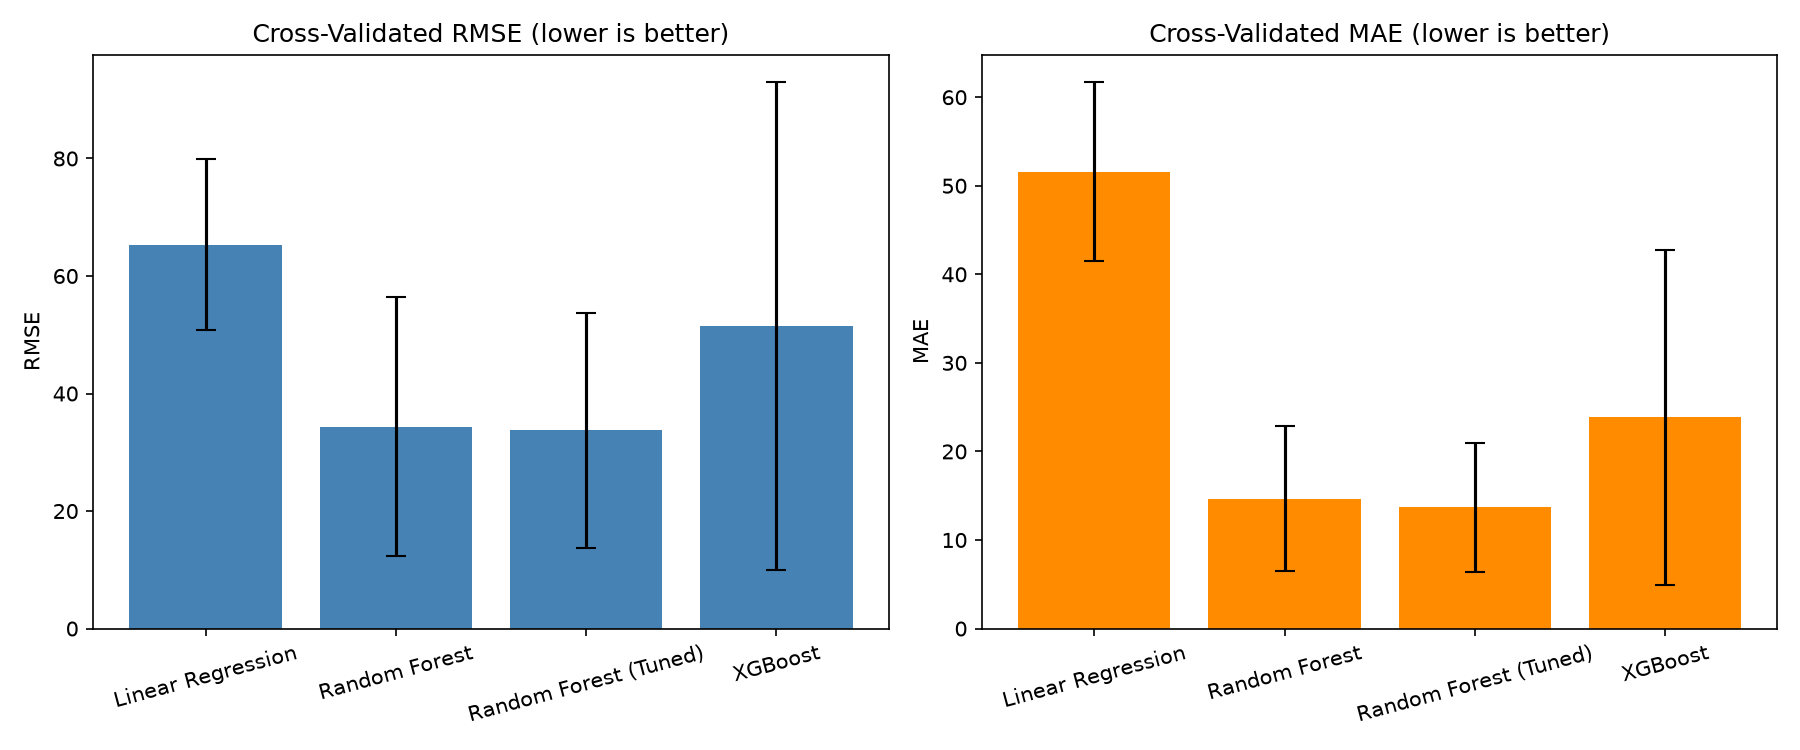
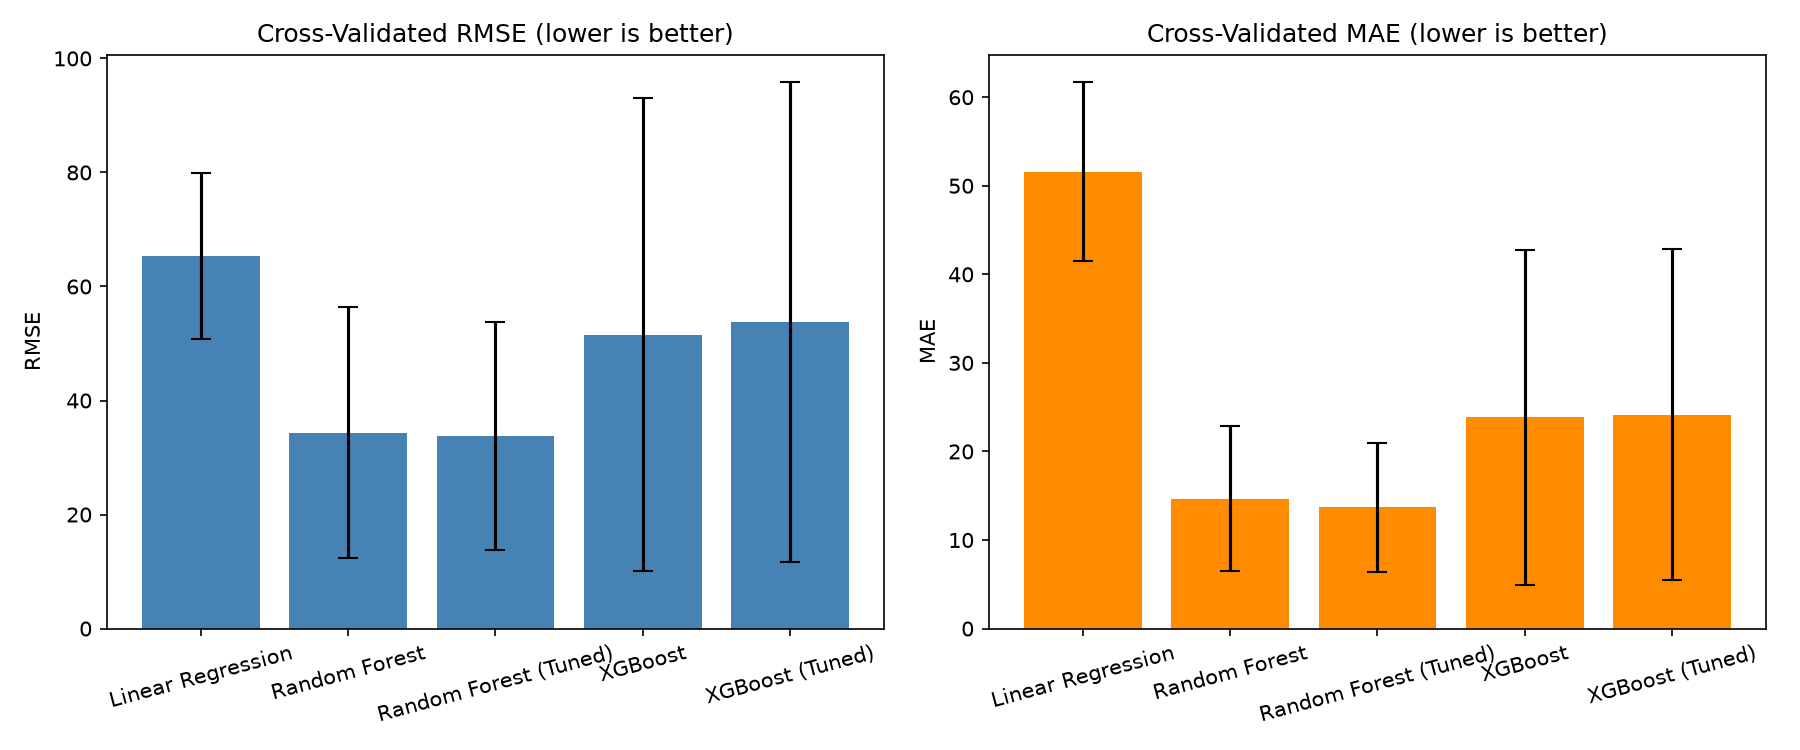
Add tuned XGBoost comparison, SHAP global + per-prediction explanations

diff --git a/app.py b/app.py
@@ -10,6 +10,8 @@ Run:
 import streamlit as st
 import pandas as pd
 import numpy as np
+import shap
+import matplotlib.pyplot as plt
 
 from sklearn.preprocessing import OneHotEncoder
 from sklearn.compose import ColumnTransformer
@@ -50,6 +52,11 @@ def train_model(df):
     pipeline.fit(X, y)
     return pipeline
 
[email redacted]_resource
+def get_shap_explainer(_model):
+    rf_model = _model.named_steps["model"]
+    return shap.TreeExplainer(rf_model)
+
 def run_prediction_tab(df, model):
     st.header("Enter details")
 
@@ -85,6 +92,72 @@ def run_prediction_tab(df, model):
         prediction = model.predict(input_df)[0]
 
         st.success(f"### Predicted Yield: {prediction:.2f} Quintal/Hectare")
+        # --- SHAP explanation for this specific prediction ---
+        explainer = get_shap_explainer(model)
+        preprocessor = model.named_steps["preprocessor"]
+        input_transformed = preprocessor.transform(input_df)
+        if hasattr(input_transformed, "toarray"):
+            input_transformed = input_transformed.toarray()
+        input_transformed = input_transformed.astype(float)
+
+        cat_encoder = preprocessor.named_transformers_["cat"]
+        cat_feature_names = list(cat_encoder.get_feature_names_out(CATEGORICAL_FEATURES))
+        all_feature_names = cat_feature_names + NUMERIC_FEATURES
+
+        shap_values = explainer.shap_values(input_transformed)
+        if isinstance(shap_values, list):
+            shap_values = shap_values[0]
+        shap_values = np.array(shap_values).flatten()
+
+        
+        if len(shap_values) != len(all_feature_names):
+            st.error(f"Feature mismatch: {len(shap_values)} SHAP values vs {len(all_feature_names)} names. Skipping explanation.")
+            shap_values = None
+
+        base_value = explainer.expected_value
+        if isinstance(base_value, (list, np.ndarray)):
+            base_value = base_value[0]
+        base_value = float(base_value)
+
+        if shap_values is not None:
+            impact_df = pd.DataFrame({
+                "feature": all_feature_names,
+                "shap_value": shap_values,
+            })
+
+            selected_crop_col = f"crop_{crop}"
+            selected_state_col = f"state_{state}"
+
+            def is_relevant(feature_name):
+                if feature_name in (selected_crop_col, selected_state_col):
+                    return True
+                if not feature_name.startswith("crop_") and not feature_name.startswith("state_"):
+                    return True
+                return False
+
+            impact_df = impact_df[impact_df["feature"].apply(is_relevant)].copy()
+            impact_df["abs_impact"] = impact_df["shap_value"].abs()
+            top_features = impact_df.sort_values("abs_impact", ascending=False).head(3)
+
+            with st.expander("🔍 Why this prediction? (See feature impact)"):
+                st.caption(
+                    f"Starting from an average yield of {base_value:.2f}, "
+                    f"here's what pushed this specific prediction up or down:"
+                )
+                for _, row in top_features.iterrows():
+                    feature_name = row["feature"]
+                    shap_val = row["shap_value"]
+
+                    if feature_name == selected_crop_col:
+                        label = f"Growing **{crop}**"
+                    elif feature_name == selected_state_col:
+                        label = f"Being grown in **{state}**"
+                    else:
+                        clean_name = feature_name.replace("_", " ")
+                        label = f"**{clean_name}**"
+
+                    direction = "increased ⬆️" if shap_val > 0 else "decreased ⬇️"
+                    st.write(f"- {label} {direction} the prediction by **{abs(shap_val):.2f}** quintal/hectare")
 
         crop_avg = df[df["crop"] == crop][TARGET].mean()
         st.caption(

diff --git a/src/train_model.py b/src/train_model.py
@@ -111,6 +111,38 @@ def tune_random_forest(X, y, cv):
 
     return grid_search.best_estimator_
 
+def tune_xgboost(X, y, cv):
+    """Finds the best XGBoost hyperparameters using grid search."""
+    preprocessor = ColumnTransformer(
+        transformers=[
+            ("cat", OneHotEncoder(handle_unknown="ignore"), CATEGORICAL_FEATURES),
+        ],
+        remainder="passthrough",
+    )
+    pipeline = Pipeline(steps=[
+        ("preprocessor", preprocessor),
+        ("model", XGBRegressor(random_state=42, verbosity=0)),
+    ])
+
+    param_grid = {
+        "model__n_estimators": [50, 100, 200, 300],
+        "model__max_depth": [2, 3, 5, 7],
+        "model__learning_rate": [0.01, 0.05, 0.1, 0.2],
+    }
+
+    grid_search = GridSearchCV(
+        pipeline, param_grid, cv=cv, scoring="neg_mean_absolute_error", n_jobs=-1
+    )
+    grid_search.fit(X, y)
+
+    print("\n" + "=" * 60)
+    print("XGBOOST HYPERPARAMETER TUNING")
+    print("=" * 60)
+    print(f"Best parameters: {grid_search.best_params_}")
+    print(f"Best CV MAE: {-grid_search.best_score_:.2f}")
+
+    return grid_search.best_estimator_
+
 def plot_predictions(results_dict, outdir):
     n = len(results_dict)
     fig, axes = plt.subplots(1, n, figsize=(6 * n, 5))
@@ -167,6 +199,38 @@ def plot_feature_importance(rf_pipeline, outdir):
     plt.close()
     print(f"Saved: {path}")
 
+def plot_shap_summary(rf_pipeline, X, outdir):
+    """Generates a SHAP summary plot showing feature impact direction and magnitude."""
+    import shap
+
+    preprocessor = rf_pipeline.named_steps["preprocessor"]
+    model = rf_pipeline.named_steps["model"]
+
+    # Transform X the same way the pipeline does internally
+    X_transformed = preprocessor.transform(X)
+    if hasattr(X_transformed, "toarray"):
+        X_transformed = X_transformed.toarray()
+    X_transformed = X_transformed.astype(float)
+
+    cat_encoder = preprocessor.named_transformers_["cat"]
+    cat_feature_names = list(cat_encoder.get_feature_names_out(CATEGORICAL_FEATURES))
+    all_feature_names = cat_feature_names + NUMERIC_FEATURES
+
+    explainer = shap.TreeExplainer(model)
+    shap_values = explainer.shap_values(X_transformed)
+
+    shap.summary_plot(
+        shap_values,
+        X_transformed,
+        feature_names=all_feature_names,
+        show=False,
+    )
+
+    path = os.path.join(outdir, "shap_summary.png")
+    plt.tight_layout()
+    plt.savefig(path, dpi=150, bbox_inches="tight")
+    plt.close()
+    print(f"Saved: {path}")
 
 def plot_cv_comparison(cv_results_df, outdir):
     fig, axes = plt.subplots(1, 2, figsize=(12, 5))
@@ -224,6 +288,8 @@ def main():
         XGBRegressor(n_estimators=200, random_state=42, verbosity=0)
     )
     cv_results.append(cross_validate_model("XGBoost", xgb_pipeline, X, y, cv))
+    tuned_xgb_pipeline = tune_xgboost(X, y, cv)
+    cv_results.append(cross_validate_model("XGBoost (Tuned)", tuned_xgb_pipeline, X, y, cv))
 
     cv_results_df = pd.DataFrame(cv_results)
     print("\n" + "=" * 60)
@@ -249,11 +315,12 @@ def main():
     rf_pipeline.fit(X_train, y_train)
     predictions_for_plot["Random Forest"] = (y_test, rf_pipeline.predict(X_test))
 
-    xgb_pipeline.fit(X_train, y_train)
-    predictions_for_plot["XGBoost"] = (y_test, xgb_pipeline.predict(X_test))
+    tuned_xgb_pipeline.fit(X_train, y_train)
+    predictions_for_plot["XGBoost (Tuned)"] = (y_test, tuned_xgb_pipeline.predict(X_test))
 
     plot_predictions(predictions_for_plot, args.outdir)
     plot_feature_importance(rf_pipeline, args.outdir)
+    plot_shap_summary(tuned_rf_pipeline, X, args.outdir)
 
     print("\nModel training complete.")
 

diff --git a/README.md b/README.md
@@ -51,17 +51,21 @@ Four models were trained and evaluated using **5-fold cross-validation** (more r
 | Random Forest | 34.37 | 14.65 | 0.959 | 0.032 |
 | **Random Forest (Tuned)** | **33.73** | **13.69** | **0.962** | **0.027** |
 | XGBoost | 51.53 | 23.84 | 0.468 | 0.925 |
+| XGBoost (Tuned) | 53.78 | 24.17 | 0.584 | 0.682 |
 
 **Key insight — why cross-validation mattered:** An initial single train-test split made Linear Regression look competitive (R² = 0.949). However, 5-fold cross-validation revealed the truth: Linear Regression's R² is actually **-29.57 on average**, with an enormous standard deviation (61.03) — meaning its performance varies wildly depending on which rows land in the test fold (especially when Sugarcane, an extreme outlier, is involved). This shows that small datasets can give misleadingly optimistic results with a single split, and cross-validation is essential for an honest evaluation.
 
-**Random Forest is the clear, consistent winner** — both in raw performance (lowest RMSE/MAE) and in stability (lowest standard deviation across folds). XGBoost, despite being a powerful algorithm, underperforms here because it needs more data than this 49-row dataset provides, leading to inconsistent results across folds.
+**Random Forest is the clear, consistent winner** — both in raw performance (lowest RMSE/MAE) and in stability (lowest standard deviation across folds). XGBoost, despite being a powerful algorithm, underperforms here because it needs more data than this 49-row dataset provides, leading to inconsistent results across folds.This held true even after tuning — GridSearchCV was also applied to XGBoost (testing n_estimators, max_depth, and learning_rate), but it only improved MAE marginally (23.84 → 24.17, essentially no change) and its R² remained far behind Random Forest's 0.962, confirming the model choice was validated, not just assumed.
 
 **Hyperparameter tuning:** Using `GridSearchCV`, the best Random Forest settings were `n_estimators=100` and `max_depth=10`. This gave a small improvement over the default settings (MAE dropped from 14.65 to 13.69). Hyperparameter tuning provided incremental improvement, confirming the model was already well-suited for this dataset size.
 
 ![Cross-Validated Model Comparison](outputs/cv_model_comparison.png)
 
 ### 4. Feature Importance
+
 Using the Random Forest model, feature importance was extracted to understand what drives yield predictions:
+
+![Feature Importance](outputs/feature_importance.png)
 
 1. **Cost of Production (per Quintal)** — most important factor
 2. **Crop type** — second most important
@@ -69,14 +73,26 @@ Using the Random Forest model, feature importance was extracted to understand wh
 4. **Cost of Cultivation (C2)**
 5. **State** — least important
 
-**Key insight:** Yield is primarily driven by *which crop* is grown and *how much it costs* to grow/produce it — not by *which state* it is grown in. This suggests that crop-specific agronomic factors matter more than regional/state-specific factors for this dataset.
-![Feature Importance](outputs/feature_importance.png)
+**Key insight:** Yield is primarily driven by *which crop* is grown and *how much it costs* to grow/produce it — not by *which state* it is grown in.
+
+#### A Closer Look: SHAP Analysis
+
+The chart above groups all crop and state dummy variables into single "crop" and "state" categories. For a more precise, per-feature view, SHAP (SHapley Additive exPlanations) values were calculated on the tuned Random Forest model:
+
+![SHAP Summary Plot](outputs/shap_summary.png)
+
+**Key insights:**
+- **`crop_Sugarcane` is the single most influential individual feature** — when a row is Sugarcane, it pushes the predicted yield up dramatically (SHAP values of 200-300+), consistent with the EDA finding that Sugarcane is a major outlier in yield.
+- **Cost of Production (per Quintal) has the most *balanced* impact** — unlike Sugarcane, it pushes predictions both up and down depending on its value, making it the most informative *continuous* feature in the model.
+- **Individual state features cluster tightly near zero** (Tamil Nadu, Maharashtra, Andhra Pradesh, etc.), confirming that state has minimal influence on yield once crop type and cost are accounted for.
 
 ### 5. Interactive Prediction App (`app.py`)
 
 A Streamlit web app was built to make the model usable without writing code. It has two tabs:
 
-- **Predict Yield** — Select a crop and state (the state dropdown automatically shows only states where that crop exists in the training data), enter cultivation/production costs, and get an instant yield prediction using the tuned Random Forest model. If a crop-state combination wasn't seen during training, the app shows a warning that the prediction is an extrapolation.
+- **Predict Yield** — Select a crop and state (the state dropdown automatically shows only states where that crop exists in the training data), enter cultivation/production costs, and get an instant yield prediction using the tuned Random Forest model.
+  - **Per-prediction explanation (SHAP):** Below each prediction, an expandable "Why this prediction?" section uses SHAP to show the top 3 specific factors that pushed *that individual prediction* up or down — e.g., "Cost of Production decreased the prediction by 35 quintal/hectare." This goes beyond a single yield number by explaining the model's reasoning for that specific input, not just its overall feature importance.
+  - If a crop-state combination wasn't seen during training, the app shows a warning that the prediction is an extrapolation.
 - **Data Insights** — All the EDA and model evaluation charts in one place, viewable without opening any code.
 
 Run it with:
@@ -89,6 +105,7 @@ streamlit run app.py
 - matplotlib, seaborn — visualization
 - scikit-learn — machine learning (Linear Regression, Random Forest)
 - xgboost — gradient boosting model for comparison
+- shap — model explainability (global feature impact + per-prediction explanations)
 - streamlit — interactive web app for predictions
 
 ## How to Run
@@ -111,10 +128,10 @@ streamlit run app.py
 - State-wise sample sizes are uneven, which may bias average comparisons
 
 ## Future Improvements
-- Incorporate rainfall and soil data for more accurate predictions
-- Use cross-validation instead of a single train-test split to get more stable metrics on this small dataset
-- Build an interactive prediction tool (e.g., Streamlit) for real-time yield estimation
-- Expand the dataset with multi-year data to capture trends over time
+- Incorporate rainfall and soil quality data for more accurate predictions
+- Expand the dataset with multi-year data to capture year-over-year trends
+- Add prediction confidence intervals instead of single-point estimates
+- Explore SHAP dependence plots for deeper analysis of how specific feature values affect predictions across the whole dataset
 
 ## Author
 Built as part of a Machine Learning Internship project — UpSkill Campus / UCT / The IoT Academy